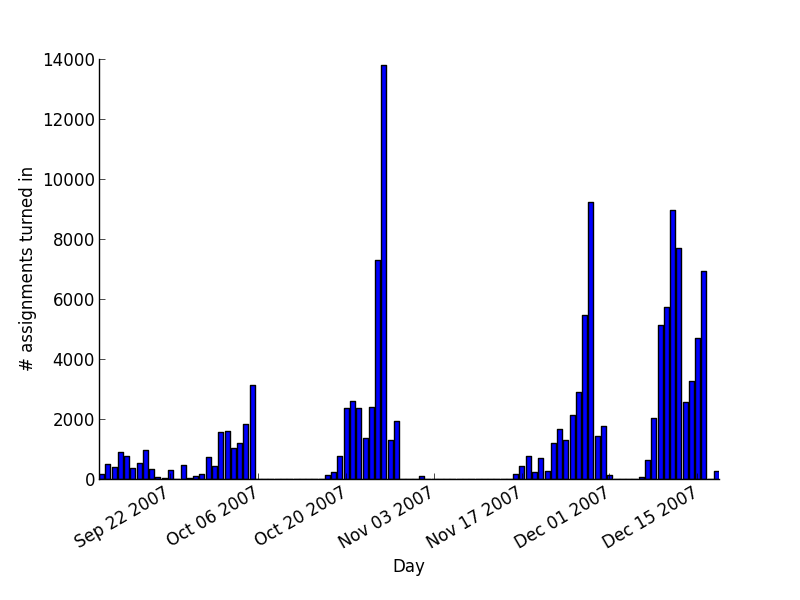
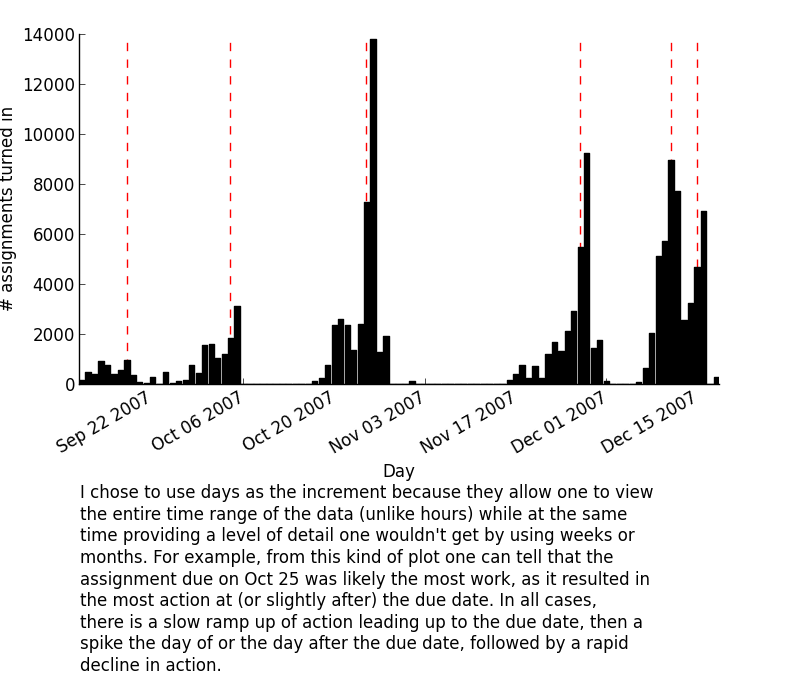
revised problem 2

diff --git a/jj1006/assignment5/p2.py b/jj1006/assignment5/p2.py
@@ -1,5 +1,6 @@
 import datetime as DT
 from matplotlib import pyplot as plt
+import matplotlib.dates as mdates
 from dateutil import rrule
 
 data = []
@@ -31,10 +32,10 @@ for t in rrule.rrule(rrule.DAILY, dtstart=min, until=max):
 	y.append(n)
 
 #now plot
-fig = plt.figure()
+fig = plt.figure(figsize = (8,7))
 
-graph = fig.add_subplot(111)
-graph.bar(x,y)
+graph = fig.add_axes((.1,.45,.8,.5))
+graph.bar(x,y,color='k')
 graph.xaxis_date()
 fig.autofmt_xdate()
 graph.set_xlabel('Day')
@@ -45,8 +46,26 @@ graph.spines['right'].set_color('none')
 graph.xaxis.set_ticks_position('bottom')
 graph.yaxis.set_ticks_position('left')
 
-#graph.annotate('45 degrees for visual emphasis', (x[17],y[17]), xytext=(30,-50), textcoords = 'offset points', arrowprops=dict(facecolor='black', shrink=0.1))
-#graph.annotate('Axis labels formatted for readability', (x[-10],40), xytext=(0, 30), textcoords = 'offset points', arrowprops=dict(facecolor='black', shrink=0.1))
+#add requested highlights
+plt.axvline(mdates.date2num(DT.datetime.strptime('2007-09-18', '%Y-%m-%d')),color='r',ls='--',zorder=0)
+plt.axvline(mdates.date2num(DT.datetime.strptime('2007-10-04', '%Y-%m-%d')),color='r',ls='--',zorder=0)
+plt.axvline(mdates.date2num(DT.datetime.strptime('2007-10-25', '%Y-%m-%d')),color='r',ls='--',zorder=0)
+plt.axvline(mdates.date2num(DT.datetime.strptime('2007-11-27', '%Y-%m-%d')),color='r',ls='--',zorder=0)
+plt.axvline(mdates.date2num(DT.datetime.strptime('2007-12-15', '%Y-%m-%d')),color='r',ls='--',zorder=0)
+plt.axvline(mdates.date2num(DT.datetime.strptime('2007-12-11', '%Y-%m-%d')),color='r',ls='--',zorder=0)
+
+cap = '''
+I chose to use days as the increment because they allow one to view
+the entire time range of the data (unlike hours) while at the same 
+time providing a level of detail one wouldn't get by using weeks or
+months. For example, from this kind of plot one can tell that the 
+assignment due on Oct 25 was likely the most work, as it resulted in
+the most action at (or slightly after) the due date. In all cases,
+there is a slow ramp up of action leading up to the due date, then a
+spike the day of or the day after the due date, followed by a rapid 
+decline in action.
+'''
+fig.text(.1,0.01,cap)
 
 plt.show()
 fig.savefig('p2.png')
